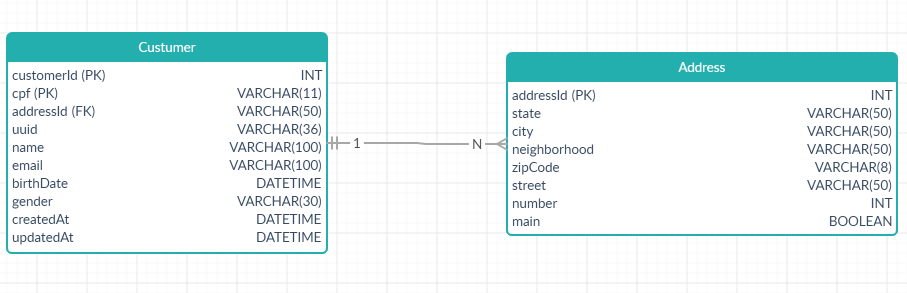
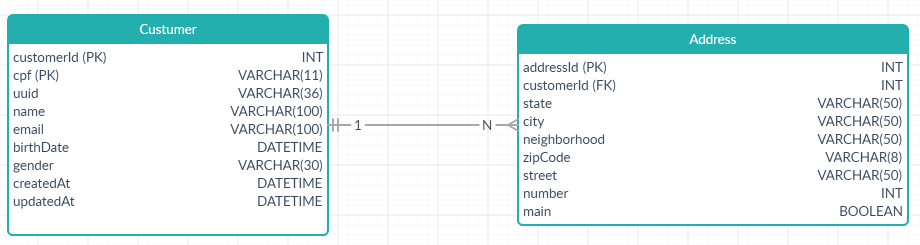
# Version: 0.0.1-SNAPSHOT # Author: Jônatas Ribeiro Tonholo
# Changelog:
 - Added MYSQL support on project
 - Created docker-compose for mysql image
 - Added Flyway on project
 - Updated ERD to fix 1-n relation
 - Updated migration script
 - Created the entities

Changed region(s): [[0.0, 0.0571, 1.0, 0.9714], [0.0, 0.4286, 0.0926, 0.7714]]

diff --git a/src/main/java/br/com/customerapi/model/Customer.java b/src/main/java/br/com/customerapi/model/Customer.java
@@ -1,10 +1,105 @@
 package br.com.customerapi.model;
 
+import java.util.Date;
+import java.util.List;
+
 /**
  * The Customer Entity
  *
  * @author Jônatas Ribeiro Tonholo
  */
 public class Customer {
+    private Integer customerId;
+    private String cpf;
+    private String name;
+    private String email;
+    private Date birthDate;
+    private String gender;
+    private Date createdAt;
+    private Date updatedAt;
+    private List<Address> addresses;
 
+    public Integer getCustomerId() {
+        return customerId;
+    }
+
+    public void setCustomerId(Integer customerId) {
+        this.customerId = customerId;
+    }
+
+    public String getCpf() {
+        return cpf;
+    }
+
+    public void setCpf(String cpf) {
+        this.cpf = cpf;
+    }
+
+    public String getName() {
+        return name;
+    }
+
+    public void setName(String name) {
+        this.name = name;
+    }
+
+    public String getEmail() {
+        return email;
+    }
+
+    public void setEmail(String email) {
+        this.email = email;
+    }
+
+    public Date getBirthDate() {
+        return birthDate;
+    }
+
+    public void setBirthDate(Date birthDate) {
+        this.birthDate = birthDate;
+    }
+
+    public String getGender() {
+        return gender;
+    }
+
+    public void setGender(String gender) {
+        this.gender = gender;
+    }
+
+    public Date getCreatedAt() {
+        return createdAt;
+    }
+
+    public void setCreatedAt(Date createdAt) {
+        this.createdAt = createdAt;
+    }
+
+    public Date getUpdatedAt() {
+        return updatedAt;
+    }
+
+    public void setUpdatedAt(Date updatedAt) {
+        this.updatedAt = updatedAt;
+    }
+
+    public List<Address> getAddresses() {
+        return addresses;
+    }
+
+    public void setAddresses(List<Address> addresses) {
+        this.addresses = addresses;
+    }
+
+    public Customer(Integer customerId, String cpf, String name, String email, Date birthDate, String gender, Date createdAt, Date updatedAt, List<Address> addresses) {
+        this.customerId = customerId;
+        this.cpf = cpf;
+        this.name = name;
+        this.email = email;
+        this.birthDate = birthDate;
+        this.gender = gender;
+        this.createdAt = createdAt;
+        this.updatedAt = updatedAt;
+        this.addresses = addresses;
+    }
 }

diff --git a/src/main/java/br/com/customerapi/model/Address.java b/src/main/java/br/com/customerapi/model/Address.java
@@ -6,5 +6,97 @@ package br.com.customerapi.model;
  * @author Jônatas Ribeiro Tonholo
  */
 public class Address {
+    private Integer addressId;
+    private Integer customerId;
+    private String state;
+    private String city;
+    private String neighborhood;
+    private String zipCode;
+    private String street;
+    private Integer number;
+    boolean main;
 
+    public Integer getAddressId() {
+        return addressId;
+    }
+
+    public void setAddressId(Integer addressId) {
+        this.addressId = addressId;
+    }
+
+    public Integer getCustomerId() {
+        return customerId;
+    }
+
+    public void setCustomerId(Integer customerId) {
+        this.customerId = customerId;
+    }
+
+    public String getState() {
+        return state;
+    }
+
+    public void setState(String state) {
+        this.state = state;
+    }
+
+    public String getCity() {
+        return city;
+    }
+
+    public void setCity(String city) {
+        this.city = city;
+    }
+
+    public String getNeighborhood() {
+        return neighborhood;
+    }
+
+    public void setNeighborhood(String neighborhood) {
+        this.neighborhood = neighborhood;
+    }
+
+    public String getZipCode() {
+        return zipCode;
+    }
+
+    public void setZipCode(String zipCode) {
+        this.zipCode = zipCode;
+    }
+
+    public String getStreet() {
+        return street;
+    }
+
+    public void setStreet(String street) {
+        this.street = street;
+    }
+
+    public Integer getNumber() {
+        return number;
+    }
+
+    public void setNumber(Integer number) {
+        this.number = number;
+    }
+
+    public boolean isMain() {
+        return main;
+    }
+
+    public void setMain(boolean main) {
+        this.main = main;
+    }
+
+    public Address(Integer addressId, Integer customerId, String state, String city, String neighborhood, String zipCode, String street, Integer number, boolean main) {
+        this.addressId = addressId;
+        this.customerId = customerId;
+        this.state = state;
+        this.city = city;
+        this.neighborhood = neighborhood;
+        this.zipCode = zipCode;
+        this.street = street;
+        this.number = number;
+        this.main = main;
+    }
 }

diff --git a/src/main/java/br/com/customerapi/CustomerAPI.java b/src/main/java/br/com/customerapi/CustomerAPI.java
@@ -1,5 +1,7 @@
 package br.com.customerapi;
 import static spark.Spark.*;
+import org.slf4j.Logger;
+import org.slf4j.LoggerFactory;
 
 /**
  * The Customer Rest API main
@@ -7,16 +9,21 @@ import static spark.Spark.*;
  * @author Jônatas Ribeiro Tonholo
  */
 public class CustomerAPI {
+    final static Logger log = LoggerFactory.getLogger(CustomerAPI.class);
 
     public static void main(String[] args) {
+
+        log.info("Customer REST API initializing...");
+
         get("/", (req, res) -> {
             res.type("application/json");
+            log.info("Test get method");
             return "Hello, World!";
         });
 
         post("/test", (req, res) -> {
             res.type("application/json");
-            System.out.println("Test of post method");
+            log.debug("Test of post method");
             res.status(200);
             return "{\"teste\":\"12345\"}";
 //            return null;
